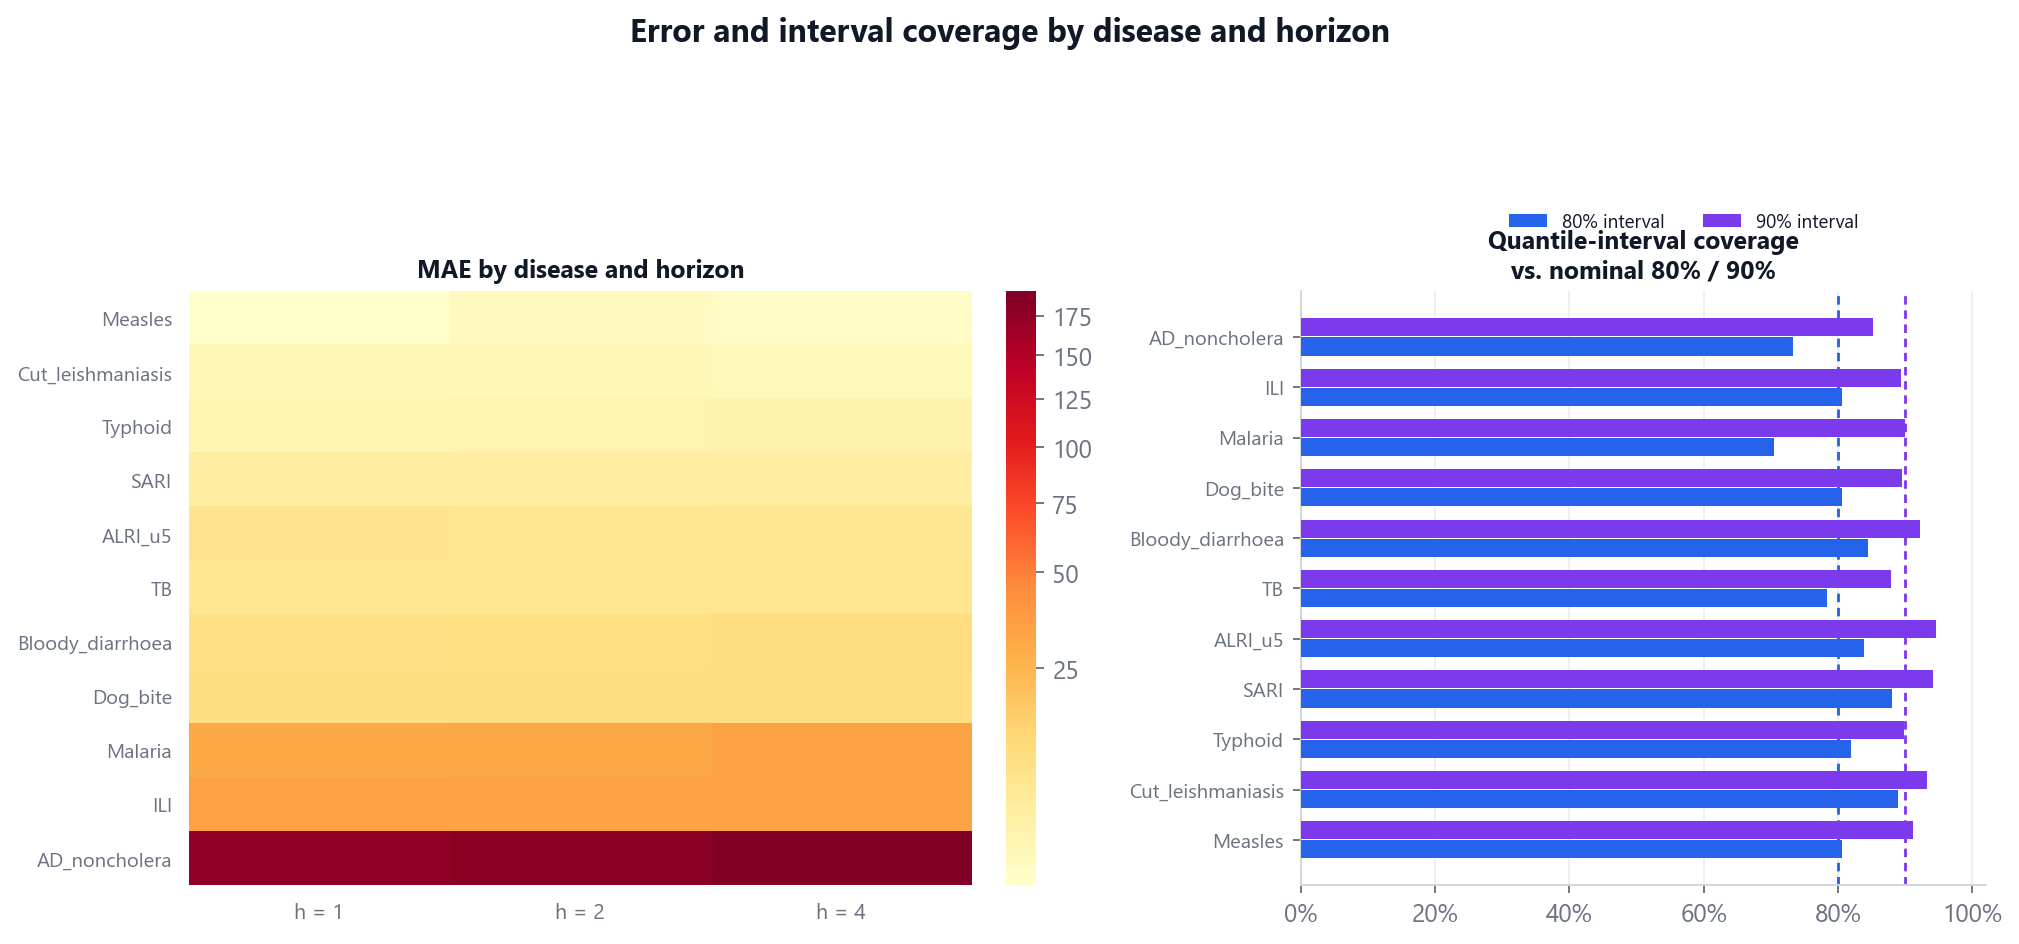
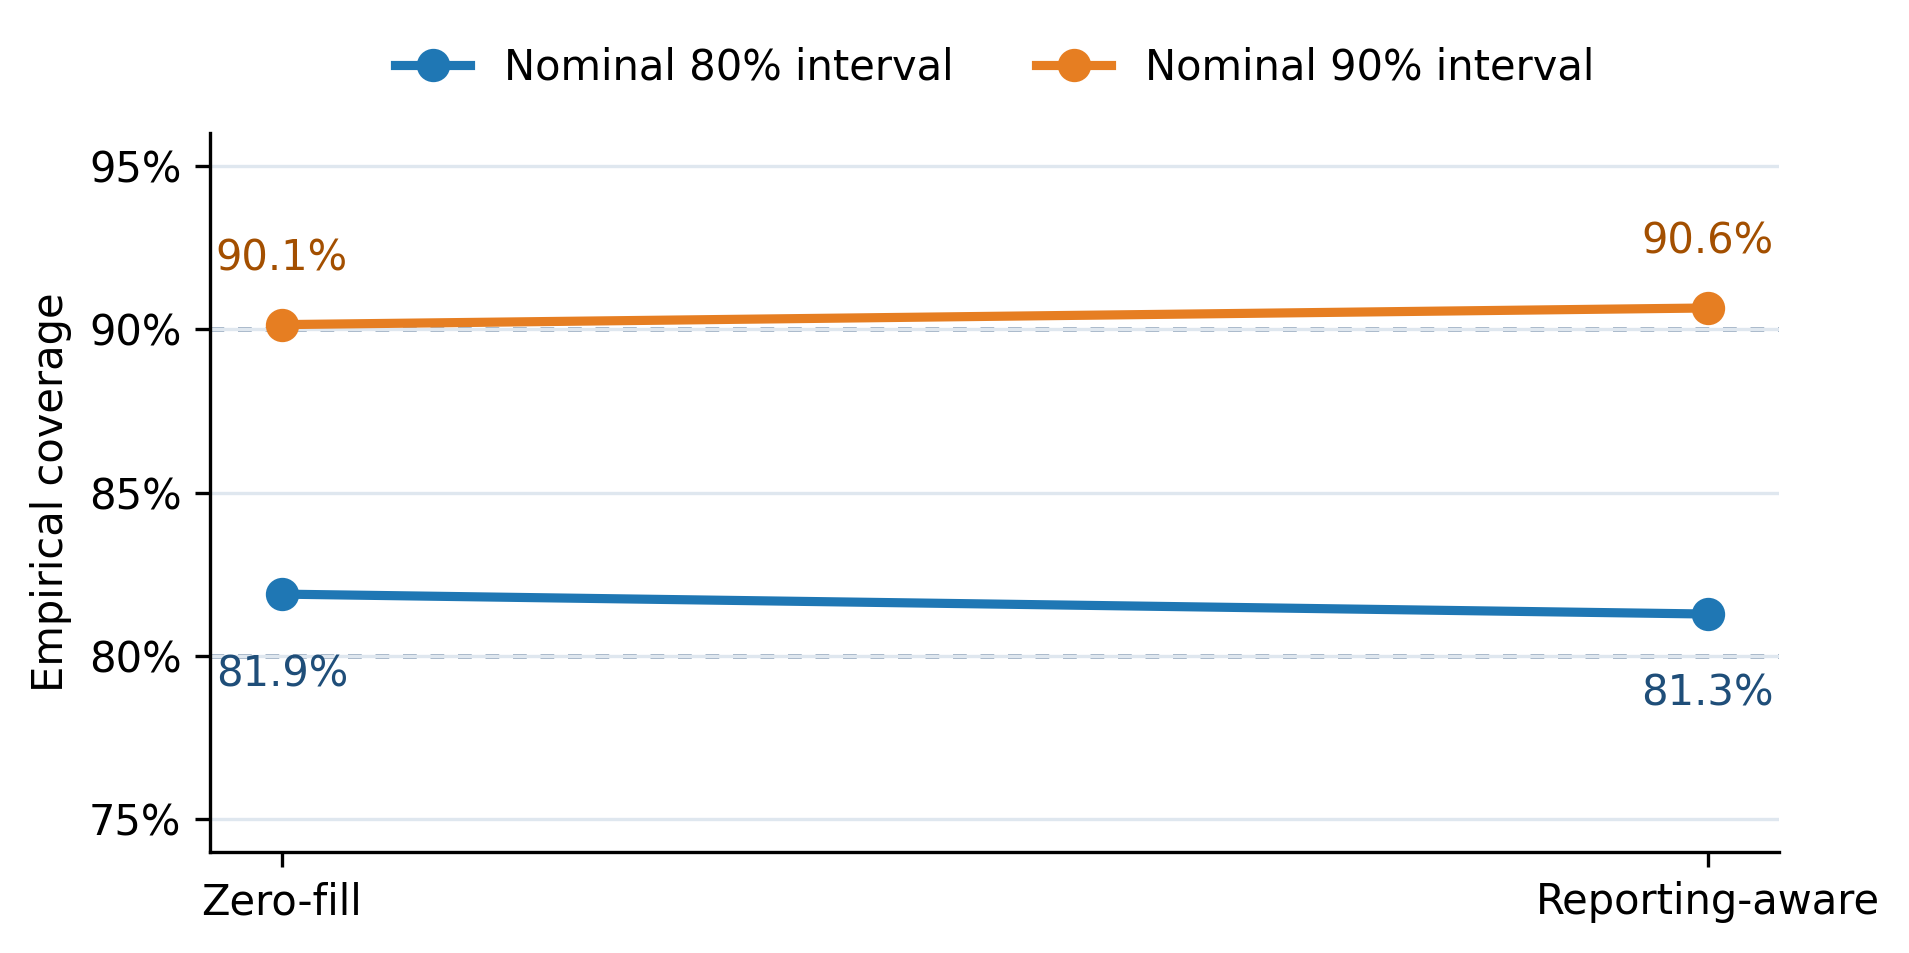
Redesign coverage chart and separate result figures

diff --git a/manuscript/isc2026_project_a.tex b/manuscript/isc2026_project_a.tex
@@ -210,7 +210,7 @@ The multi-mechanism stress test in Table~\ref{tab:stress} consistently favors re
 
 \begin{figure}
 \centering
-\includegraphics[width=\columnwidth]{figure4_error_coverage.png}
+\includegraphics[width=0.82\columnwidth]{figure4_error_coverage.png}
 \caption{Error and interval coverage by disease and horizon. Point-error magnitude and nominal coverage vary across conditions, motivating stratified reporting.}
 \label{fig:coverage}
 \end{figure}
@@ -237,7 +237,7 @@ This paper presented an observation-aware forecasting protocol for rotating dise
 \subsubsection{Competing Interests} The authors have no competing interests to declare that are relevant to the content of this paper.
 \end{credits}
 
-\vspace{-0.18in}
+\vspace{-0.42in}
 \begingroup
 \sloppy
 \footnotesize
